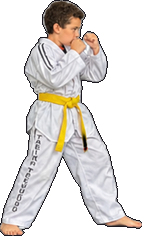
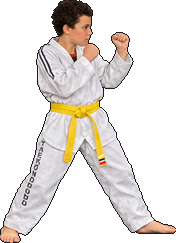
CAÇADOR com folha nova
Claude-Session: https://claude.ai/code/session_01HXNLdPa6jqkq51q5LfzTTd

Changed region(s): [[0.0, 0.0, 1.0, 1.0]]

diff --git a/index.html b/index.html
@@ -152,7 +152,7 @@ const ROSTER=[
  {nome:'TIO',real:true,hit:{soco:{x:12,y:-51,w:22,h:13},direto:{x:11,y:-50,w:22,h:13},chute:{x:19,y:-47,w:22,h:13},giro:{x:19,y:-47,w:22,h:13},passo:{x:18,y:-41,w:22,h:13},lateral:{x:18,y:-41,w:22,h:13},aereo:{x:19,y:-47,w:22,h:13}},spr:{idle:['tio-idle.webp',74.2,1.0],a0:['tio-idle.webp',74.2,1.0],a1:['tio-andar.webp',88.2,0.979],a2:['tio-andar2.webp',59.0,1.029],a3:['tio-andar.webp',88.2,0.979],junta:['tio-junta.webp',48.0,1.083],soco:['tio-soco.webp',83.0,1.004],direto:['tio-direto.webp',86.5,0.988],chute:['tio-chute.webp',45.5,1.071],alto:['tio-chute.webp',45.5,1.071],passo:['tio-lado.webp',73.5,1.058],guarda:['tio-guarda.webp',76.0,0.996]},faixa:'#f2c230',pele:'#e0b48e',cabelo:'#2a1810',estilo:'curto'},
  {nome:'CLEITON',tam:1.14,real:true,hit:{soco:{x:10,y:-52,w:22,h:13},direto:{x:10,y:-51,w:22,h:13},chute:{x:22,y:-45,w:22,h:13},giro:{x:9,y:-63,w:22,h:18},passo:{x:11,y:-64,w:22,h:20},lateral:{x:22,y:-45,w:22,h:13},aereo:{x:22,y:-45,w:22,h:13}},spr:{idle:['cleiton-idle.webp',75.0,1.0],a0:['cleiton-idle.webp',75.0,1.0],a1:['cleiton-guarda.webp',76.5,0.979],a2:['cleiton-andar.webp',54.8,0.988],a3:['cleiton-guarda.webp',76.5,0.979],junta:['cleiton-junta.webp',120.0,0.946],soco:['cleiton-soco.webp',79.2,0.996],direto:['cleiton-direto.webp',84.8,0.988],chute:['cleiton-chute.webp',51.5,0.979],alto:['cleiton-alto.webp',84.0,1.05],passo:['cleiton-costas.webp',90.5,1.087],guarda:['cleiton-guarda.webp',76.5,0.979]},faixa:'#151515',gola:true,pele:'#8a5a3b',cabelo:'#120c08',estilo:'curto'},
  {nome:'CAMPOS',real:true,fwdKick:true,backStep:true,hit:{soco:{x:7,y:-50,w:22,h:16},direto:{x:6,y:-51,w:22,h:16},chute:{x:9,y:-67,w:22,h:16},giro:{x:9,y:-67,w:22,h:16},passo:{x:17,y:-54,w:22,h:16},lateral:{x:17,y:-54,w:22,h:16},aereo:{x:9,y:-67,w:22,h:16}},spr:{idle:['campos-idle.webp',85.0,1.0],a0:['campos-idle.webp',85.0,1.0],a1:['campos-idle2.webp',88.8,1.058],a2:['campos-andar.webp',77.0,1.004],a3:['campos-idle2.webp',88.8,1.058],junta:['campos-junta.webp',29.0,1.033],soco:['campos-soco.webp',78.0,1.004],direto:['campos-direto.webp',87.5,1.004],chute:['campos-alto.webp',58.5,1.083],alto:['campos-alto.webp',58.5,1.083],passo:['campos-lado.webp',89.5,0.979],lado:['campos-lado.webp',89.5,0.979],guarda:['campos-guarda.webp',69.5,1.004]},faixa:'#f2c230',pele:'#e0b48e',cabelo:'#4a2a14',estilo:'cacheado'},
- {nome:'CAÇADOR',tam:0.82,real:true,hit:{soco:{x:6,y:-48,w:22,h:16},direto:{x:6,y:-49,w:22,h:16},chute:{x:15,y:-51,w:22,h:16},giro:{x:15,y:-51,w:22,h:16},passo:{x:15,y:-51,w:22,h:16},lateral:{x:15,y:-51,w:22,h:16},aereo:{x:15,y:-51,w:22,h:16}},spr:{idle:['cacador-idle.webp',73.5,1.0],a0:['cacador-idle.webp',73.5,1.0],a1:['cacador-idle2.webp',76.2,1.008],a2:['cacador-andar.webp',62.2,0.967],a3:['cacador-idle2.webp',76.2,1.008],junta:['cacador-junta.webp',41.5,0.996],soco:['cacador-soco.webp',74.5,0.975],direto:['cacador-direto.webp',75.0,0.975],chute:['cacador-chute.webp',46.0,0.996],alto:['cacador-chute.webp',46.0,0.996],passo:['cacador-chute.webp',46.0,0.996],guarda:['cacador-guarda.webp',67.0,0.983]},faixa:'#f2c230',pele:'#e0b48e',cabelo:'#2a1810',estilo:'cacheado'}
+ {nome:'CAÇADOR',tam:0.82,real:true,hit:{soco:{x:5,y:-51,w:22,h:16},direto:{x:5,y:-50,w:22,h:16},chute:{x:15,y:-52,w:22,h:16},giro:{x:15,y:-52,w:22,h:16},passo:{x:15,y:-52,w:22,h:16},lateral:{x:15,y:-52,w:22,h:16},aereo:{x:15,y:-52,w:22,h:16}},spr:{idle:['cacador-idle.webp',74.0,1.0],a0:['cacador-idle.webp',74.0,1.0],a1:['cacador-idle2.webp',75.8,1.029],a2:['cacador-andar.webp',72.2,1.008],a3:['cacador-idle2.webp',75.8,1.029],junta:['cacador-junta.webp',41.0,1.021],soco:['cacador-soco.webp',68.8,1.017],direto:['cacador-direto.webp',79.2,1.017],chute:['cacador-chute.webp',41.5,1.017],alto:['cacador-chute.webp',41.5,1.017],passo:['cacador-chute.webp',41.5,1.017],guarda:['cacador-guarda.webp',83.8,1.012]},faixa:'#f2c230',pele:'#e0b48e',cabelo:'#2a1810',estilo:'cacheado'}
 ];
 const LEG=6;
 const CAMX=48,AL=CAMX+14,AR=CAMX+288-14;   // arena = uma tela (cenário fixo)
